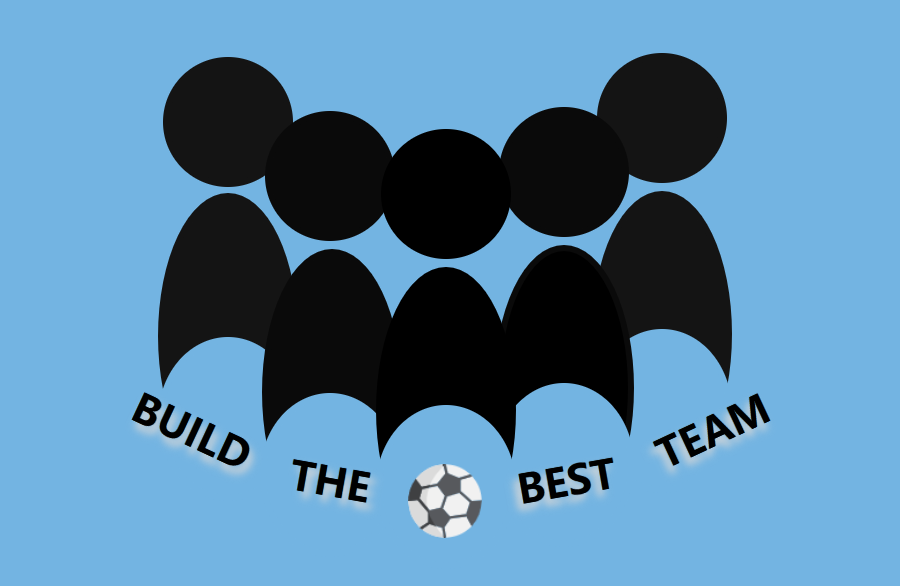
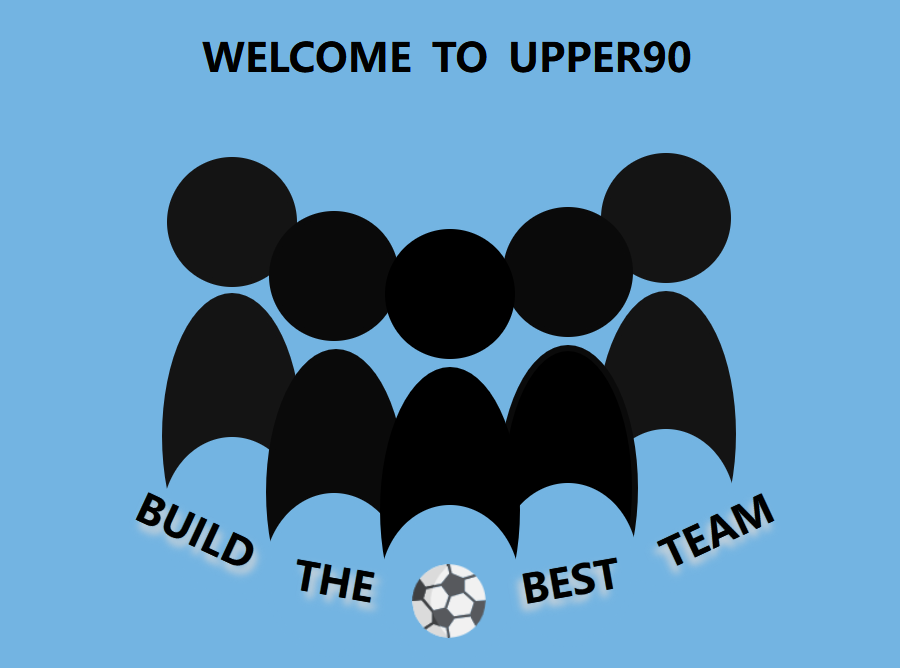
styling issue

Changed region(s): [[0.1244, 0.0614, 0.8711, 0.9522]]

diff --git a/css/home.css b/css/home.css
@@ -4,4 +4,17 @@
     width: 70%;
     height: 70%;
     text-align: center;
-  }
+}
+
+.home-title{
+    font-size: 48px; 
+    font-weight: 700; 
+    margin-bottom: 50px; 
+    text-shadow: -4px 4px 5px var(--dark-blue);
+}
+
+.title-container{
+    text-align: center;
+    width: 70%;
+    height: 70%;
+}

diff --git a/index.php b/index.php
@@ -2,8 +2,11 @@
 
 <link rel="stylesheet" href="css/home.css">
 <div class="inner-page-contents">
+  <div class="title-container">
+    <h1 class="home-title">WELCOME TO UPPER90</h1>
+  </div>
   <div class="homeImage-container">
-  <?php echo "<img src='images/homePageDesign.png'>"?>
+    <?php echo "<img src='images/homePageDesign.png'>"?>
   </div>
 </div>
 
